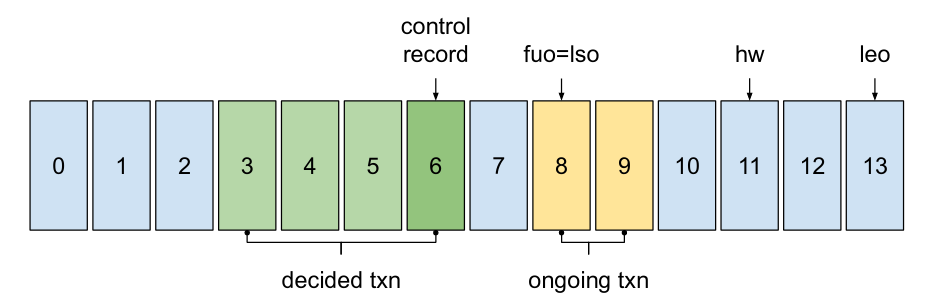
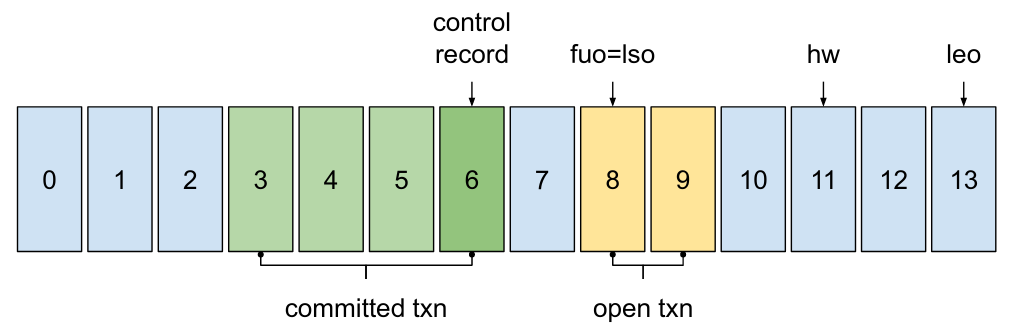
Add feedback from Tom 2/2

diff --git a/_posts/2023-04-14-kafka-transactions.md b/_posts/2023-04-14-kafka-transactions.md
@@ -10,12 +10,18 @@ It is widely used in various industries for data streaming applications, such as
 One of the key features of Kafka is the support for transactions, which provides exactly-once semantics (EOS) and is available since Kafka 0.11 ([KIP-98](https://cwiki.apache.org/confluence/display/KAFKA/KIP-98+-+Exactly+Once+Delivery+and+Transactional+Messaging)).
 The support for EOS was recently extended to source connectors in Kafka Connect, which enables configuration-driven and fully transactional streaming pipelines ([KIP-618](https://cwiki.apache.org/confluence/display/KAFKA/KIP-618%3A+Exactly-Once+Support+for+Source+Connectors)).
 
-As messages flow through Kafka, they can be processed by multiple consumers, and ensuring that all consumers that should receive a message actually receive it once and only once can be crucial.
-The EOS guarantees that any set of operations inside Kafka will be completed atomically, either all of the operations succeed or none of them do.
-This is done by defining transaction boundaries that dictate which operations can be grouped together in a single transaction.
-These operations can include reading from topics, writing to topics, and committing offsets.
-A failure during processing can cause a transaction to be aborted, in which case none of the messages from the transaction will be readable by transactional consumers.
-This helps in maintaining high levels of reliability and consistency as data is processed throughout the application's lifetime.
+Transactions provide the guarantee of atomicity, consistency, isolation, and durability (ACID) for a group of messages that are published to Kafka.
+This means that either all messages within the transaction will be successfully written to Kafka or none of the messages will be written.
+This is a crucial feature when it comes to ensuring data consistency and avoiding any data loss.
+
+Kafka transactions are particularly important in scenarios where data integrity is critical, such as financial transactions, logging systems, and messaging platforms.
+Additionally, using Kafka transactions can help ensure that the ordering of events is preserved, which can be necessary for certain applications.
+
+In this post you will learn how EOS works in Kafka, which are the main components that are involved in a transaction lifetime and their requirements. 
+Then, you will learn about the drawbacks, so that you can anticipate any issue long before your application reach production stage.
+Finally, you will see a basic example that helps to understand how transactions metadata are stored, which is useful for troubleshooting.
+
+A general understanding of how the log replication protocol works is required to fully understand some of the concepts presented here.
 
 <!--more-->
 
@@ -43,13 +49,15 @@ In addition to durability, this provides partition level message ordering and du
 
 When the idempotent producer is enabled, the broker registers the producer id (PID) and the epoch (producer session).
 A sequence number is assigned to each record when the batch is first added to a produce request and never changed, even if the batch is resent.
-The broker keeps track of the sequence number per producer and partition, periodically storing this information in `.snapshot` files.
+The broker keeps track of the sequence number per producer and partition, periodically storing this information in a `.snapshot` file.
 Whenever a new batch arrives, the broker checks if the last received number is equal to the first batch number plus one, then the batch is acknowledged, otherwise it is rejected.
 
 Unfortunately, the idempotent producer does not guarantee duplicate protection across restarts and when you need to write to multiple partitions as a single unit of work.
 This is the typical scenario with many stream processing applications that run read-process-write cycles.
-In this case, you can make these cycles atomic using the Kafka Producer or Kafka Streams APIs.
+In this case, you can make these cycles atomic using the transaction support of the Kafka Producer or Kafka Streams APIs.
+
 The Kafka Producer API is low level, so you need to ensure the right configuration and to commit offsets within the scope of the transaction.
+A transaction should be aborted in case failure during processing, which means none of the messages from the transaction will be readable by transactional consumers.
 Instead, with the Kafka Streams API you can simply set `processing.guarantee=exactly_once_v2` to enable EOS on your existing topology.
 
 ### Considerations
@@ -63,10 +71,10 @@ Thereafter, any existing producers using the same `transactional.id` are conside
 > This limitation was hugely inefficient, because an application instance couldn't reuse a single thread-safe producer instance, but had to create one for each input partition. 
 > It was fixed with by forcing the producer to send the consumer group metadata along with the offsets to commit ([KIP-447](https://cwiki.apache.org/confluence/display/KAFKA/KIP-447%3A+Producer+scalability+for+exactly+once+semantics)).
 
-To guarantee message ordering, a given producer can have at most one open transaction.
+To guarantee message ordering, a given producer can have at most one open transaction (they are executed serially).
 Consumers with `isolation.level=read_committed` are not allowed to advance to offsets which include open transactions, while messages from aborted transactions are filtered out.
 
-The `TransactionCoordinator` is a module running inside every Kafka broker.
+The transaction coordinator is a module running inside every Kafka broker.
 Each coordinator owns a subset of the partitions in the internal `__transaction_state` topic (i.e. the partitions for which its broker is the leader).
 The coordinator automatically aborts any ongoing transaction that is not completed within `transaction.timeout.ms`.
 
@@ -74,7 +82,17 @@ It is important to note that transactions are only supported inside a single Kaf
 If the transaction scope includes processors with externally observable side-effects, you would need to use an additional component such as `ChainedKafkaTransactionManager` from the SpringBoot project.
 This component is able to synchronize a database transaction with the Kafka transaction.
 
-#### Transaction states
+#### Transaction metadata
+
+A control record is a special type of record that is used for internal operations within Kafka, rather than for normal message processing.
+They are primarily used by the Kafka brokers themselves to manage topics, partitions, and other metadata, but may sometimes be used by administrators or monitoring tools as well.
+Control records are typically not visible to Kafka consumers, as they are meant to be processed only by the Kafka brokers.
+
+An end transaction marker (`COMMIT` or `ABORT`) is a special control record that indicates the end of a transaction (decision).
+It is used to ensure that the transaction is either completed successfully or aborted in case of a failure.
+The end transaction marker is added to the log after all the records related to the transaction have been written to the log.
+
+Non-transactional records are considered decided immediately, but transactional records are only decided when the corresponding commit or abort marker is written.
 
 A transaction goes through the following states:
 
@@ -82,14 +100,18 @@ A transaction goes through the following states:
 2. **Decided and unreplicated** (PrepareCommit\|PrepareAbort)
 3. **Decided and replicated** (CompleteCommit\|CompleteAbort)
 
-Non-transactional batches are considered decided immediately, but transactional batches are only decided when the corresponding commit or abort marker is written (control record).
-
-The high watermark (HW) is the offset of the last message that was successfully committed (replicated to all in-sync replicas).
-The first unstable offset (FUO) is the earliest offset that is part of the ongoing transaction, if present.
-The last stable offset (LSO) is the offset such that all lower offsets have been decided and it is always present.
-The LSO is equal to the FUO if it's lower than the HW, otherwise it's the HW (LSO <= HW <= LEO).
+This is handled through a process similar to the two-phase commit protocol.
+Every time some data is sent to a new partition inside a transaction, we have a new `Ongoing` control record.
+When the transaction completes, we have the `PrepareCommit` or `PrepareAbort` control record and the transaction coordinator is doomed to commit or abort.
+The final step consists of writing the end transaction markers to each involved partition, and the `CompleteCommit` or `CompleteAbort` control record.
 
 ![txn log](/assets/images/posts/2023-04-14-kafka-txn-log.png)
+
+The last stable offset (LSO) is the offset such that all lower offsets have been decided and it is always present.
+The first unstable offset (FUO) is the earliest offset that is part of the ongoing transaction, if present.
+
+The LSO is equal to the FUO if it's lower than the HW, otherwise it's the HW.
+We have that `LSO <= HW <= LEO`, which can be the same offset when there is no open transaction and all partitions are in-sync.
 
 #### Error handling
 
@@ -98,7 +120,7 @@ The `TransactionalIdAuthorizationException` happens when you have authorization 
 In the following example we allow any `transactional.id` from any user.
 
 ```sh
-$ kafka-acls.sh --bootstrap-server:9092 --command-config client.properties --add \
+$ $KAFKA_HOME/bin/kafka-acls.sh --bootstrap-server :9092 --command-config client.properties --add \
   --allow-principal User:* --operation write --transactional-id *
 ```
 
@@ -109,10 +131,13 @@ When running on a Kubernetes platform and you don't need fast recovery times, an
 
 #### Monitoring
 
-When running in production, it is important to monitor the health of your Kafka deployments to maintain reliable performance.
-Some of the metrics that Kafka provides can be useful when dealing with transaction issues and tuning.
+When running in production, it is important to collect metrics provided by your Kafka deployments.
 
-On the broker side, you should should collect at least the count and 99 percentile for the following APIs.
+If you've not collected the metrics then you have no information to go on when something goes wrong. 
+You're often left with no choice but to reconfigure with the right metrics and wait for the problem to happen again in order to understand it. 
+This could double its impact, or worse.
+
+On the broker side, the following JMX metrics are particularly helpful when diagnosing issue impacting transactions.
 
 ```sh
 # requests: FindCoordinator, InitProducerId, AddPartitionsToTxn, Produce, EndTxn
@@ -124,21 +149,25 @@ kafka.network:type=RequestMetrics,name=RemoteTimeMs,request=([\w]+)
 kafka.network:type=RequestMetrics,name=ThrottleTimeMs,request=([\w]+)
 kafka.network:type=RequestMetrics,name=ResponseQueueTimeMs,request=([\w]+)
 kafka.network:type=RequestMetrics,name=ResponseSendTimeMs,request=([\w]+)
-attributes:Count,99thPercentile
+# attributes: Count, 99thPercentile
 ```
 
 Likewise the following producer metrics can be helpful, perhaps after broker logs reveal some misbehavior.
 
 ```sh
 kafka.producer:type=producer-metrics,client-id=([-.\w]+)
-attributes:txn-init-time-ns-total,txn-begin-time-ns-total,txn-send-offsets-time-ns-total,txn-commit-time-ns-total,txn-abort-time-ns-total
+# attributes: txn-init-time-ns-total, txn-begin-time-ns-total, txn-send-offsets-time-ns-total, txn-commit-time-ns-total, txn-abort-time-ns-total
 ```
 
 ### Drawbacks
 
 There are a few drawbacks when using Kafka transactions that developers should be aware of.
 
-Firstly, transactions can add some latency to an application due to the write amplification required to ensure EOS.
+Firstly, enabling EOS has an effect on throughput, which can be significant.
+Each producer can only process transactions sequentially, so you might need multiple transactional producers, which can have a knock-on effect on the rest of the application.
+This is where frameworks can provide useful abstractions over multiple producer instances.
+
+Then, transactions can add some latency to an application due to the write amplification required to ensure EOS.
 While this may not be a significant issue for some applications, those that require real-time processing may be affected.
 
 Each transaction in Kafka incurs some overhead that is independent of the number of messages involved. 
@@ -171,7 +200,7 @@ Additionally, if the partition belongs to a compacted topic, this causes the unb
 If not detected and fixed in time, this may lead to disk space exhaustion and service disruption.
 
 Fortunately, there are embedded tools that can be used to find all hanging transactions and roll them back.
-After that, the LSO starts to increment again on every transaction completion and the application should be able to recover.
+When doing that, it is important to understand the business context surrounding the records in this transaction and possibly append those records again using a new transaction.
 
 ```sh
 # find all hanging transactions in a broker
@@ -189,6 +218,7 @@ Let's run a basic example to see how transactions work at the partition level.
 You just need an environment with few command line tools (curl, tar, java, mvn).
 
 This application consumes text messages from the `input-topic`, reverts their content, and sends the result to the `output-topic`.
+The following diagram shows the relevant RPCs.
 
 ![txn app](/assets/images/posts/2023-04-14-kafka-txn-app.png)
 
@@ -207,9 +237,9 @@ $ $KAFKA_HOME/bin/zookeeper-server-start.sh -daemon $KAFKA_HOME/config/zookeeper
 
 # open a new terminal, get and run the application (Ctrl+C to stop)
 $ git clone git@github.com:fvaleri/examples.git -n --depth=1 --filter=tree:0 && cd examples \
-  && git sparse-checkout set --no-cone kafka/kafka-txn && git checkout 412c0e4f7ccdd9db32f311594358479ab001231b
+  && git sparse-checkout set --no-cone kafka/kafka-txn && git checkout 5fe575a16fd4106519b13953f2049a6c3101e9f4
 ...
-HEAD is now at 412c0e4 Update start log
+HEAD is now at 5fe575a Add invalid offset handling
 
 $ export BOOTSTRAP_SERVERS="localhost:9092" INSTANCE_ID="kafka-txn-0" \
   GROUP_ID="my-group" INPUT_TOPIC="input-topic" OUTPUT_TOPIC="output-topic"
@@ -255,58 +285,56 @@ Knowing the coordinating partitions, we can take a look at their content using t
 Note how we pass the decoder parameter when dumping from internal topics, whose content is encoded for performance reasons.
 
 ```sh
-# dump output-topic-0
-$ $KAFKA_HOME/bin/kafka-dump-log.sh --deep-iteration --print-data-log --files /tmp/kafka-logs/output-topic-0/00000000000000000000.log
-Dumping /tmp/kafka-logs/output-topic-0/00000000000000000000.log
-Log starting offset: 0
-baseOffset: 0 lastOffset: 0 count: 1 baseSequence: 0 lastSequence: 0 producerId: 0 producerEpoch: 0 partitionLeaderEpoch: 0 isTransactional: true isControl: false deleteHorizonMs: OptionalLong.empty position: 0 CreateTime: 1680383687941 size: 82 magic: 2 compresscodec: none crc: 2785707995 isvalid: true
-| offset: 0 CreateTime: 1680383687941 keySize: -1 valueSize: 14 sequence: 0 headerKeys: [] payload: tset
-baseOffset: 1 lastOffset: 1 count: 1 baseSequence: -1 lastSequence: -1 producerId: 0 producerEpoch: 0 partitionLeaderEpoch: 0 isTransactional: true isControl: true deleteHorizonMs: OptionalLong.empty position: 82 CreateTime: 1680383688163 size: 78 magic: 2 compresscodec: none crc: 3360473936 isvalid: true
-| offset: 1 CreateTime: 1680383688163 keySize: 4 valueSize: 6 sequence: -1 headerKeys: [] endTxnMarker: COMMIT coordinatorEpoch: 0
-
-# dump __consumer_offsets-12 using the offsets decoder
-$ $KAFKA_HOME/bin/kafka-dump-log.sh --deep-iteration --print-data-log --offsets-decoder --files /tmp/kafka-logs/__consumer_offsets-12/00000000000000000000.log
-Dumping /tmp/kafka-logs/__consumer_offsets-12/00000000000000000000.log
-Starting offset: 0
-...
-baseOffset: 1 lastOffset: 1 count: 1 baseSequence: 0 lastSequence: 0 producerId: 0 producerEpoch: 0 partitionLeaderEpoch: 0 isTransactional: true isControl: false deleteHorizonMs: OptionalLong.empty position: 339 CreateTime: 1665506597950 size: 118 magic: 2 compresscodec: none crc: 4199759988 isvalid: true
-| offset: 1 CreateTime: 1680383688085 keySize: 26 valueSize: 24 sequence: 0 headerKeys: [] key: offset_commit::group=my-group,partition=input-topic-0 payload: offset=1
-baseOffset: 2 lastOffset: 2 count: 1 baseSequence: -1 lastSequence: -1 producerId: 0 producerEpoch: 0 partitionLeaderEpoch: 0 isTransactional: true isControl: true deleteHorizonMs: OptionalLong.empty position: 457 CreateTime: 1665506597998 size: 78 magic: 2 compresscodec: none crc: 3355926470 isvalid: true
-| offset: 2 CreateTime: 1680383688163 keySize: 4 valueSize: 6 sequence: -1 headerKeys: [] endTxnMarker: COMMIT coordinatorEpoch: 0
-...
+ 1 # dump output-topic-0
+ 2 $ $KAFKA_HOME/bin/kafka-dump-log.sh --deep-iteration --print-data-log --files /tmp/kafka-logs/output-topic-0/00000000000000000000.log
+ 3 Dumping /tmp/kafka-logs/output-topic-0/00000000000000000000.log
+ 4 Log starting offset: 0
+ 5 baseOffset: 0 lastOffset: 0 count: 1 baseSequence: 0 lastSequence: 0 producerId: 0 producerEpoch: 0 partitionLeaderEpoch: 0 isTransactional: true isControl: false deleteHorizonMs: OptionalLong.empty position: 0 CreateTime: 1680383687941 size: 82 magic: 2 compresscodec: none crc: 2785707995 isvalid: true
+ 6 | offset: 0 CreateTime: 1680383687941 keySize: -1 valueSize: 14 sequence: 0 headerKeys: [] payload: tset
+ 7 baseOffset: 1 lastOffset: 1 count: 1 baseSequence: -1 lastSequence: -1 producerId: 0 producerEpoch: 0 partitionLeaderEpoch: 0 isTransactional: true isControl: true deleteHorizonMs: OptionalLong.empty position: 82 CreateTime: 1680383688163 size: 78 magic: 2 compresscodec: none crc: 3360473936 isvalid: true
+ 8 | offset: 1 CreateTime: 1680383688163 keySize: 4 valueSize: 6 sequence: -1 headerKeys: [] endTxnMarker: COMMIT coordinatorEpoch: 0
+ 9 
+10 # dump __consumer_offsets-12 using the offsets decoder
+11 $ $KAFKA_HOME/bin/kafka-dump-log.sh --deep-iteration --print-data-log --offsets-decoder --files /tmp/kafka-logs/__consumer_offsets-12/00000000000000000000.log
+12 Dumping /tmp/kafka-logs/__consumer_offsets-12/00000000000000000000.log
+13 Starting offset: 0
+14 ...
+15 baseOffset: 1 lastOffset: 1 count: 1 baseSequence: 0 lastSequence: 0 producerId: 0 producerEpoch: 0 partitionLeaderEpoch: 0 isTransactional: true isControl: false deleteHorizonMs: OptionalLong.empty position: 339 CreateTime: 1665506597950 size: 118 magic: 2 compresscodec: none crc: 4199759988 isvalid: true
+16 | offset: 1 CreateTime: 1680383688085 keySize: 26 valueSize: 24 sequence: 0 headerKeys: [] key: offset_commit::group=my-group,partition=input-topic-0 payload: offset=1
+17 baseOffset: 2 lastOffset: 2 count: 1 baseSequence: -1 lastSequence: -1 producerId: 0 producerEpoch: 0 partitionLeaderEpoch: 0 isTransactional: true isControl: true deleteHorizonMs: OptionalLong.empty position: 457 CreateTime: 1665506597998 size: 78 magic: 2 compresscodec: none crc: 3355926470 isvalid: true
+18 | offset: 2 CreateTime: 1680383688163 keySize: 4 valueSize: 6 sequence: -1 headerKeys: [] endTxnMarker: COMMIT coordinatorEpoch: 0
+19 ...
 ```
 
-As you can see, the consumer offsets and the output message are committed as an atomic unit.
-In `wc-output-0`, we see that the data batch is transactional and contains the producer's state (PID and epoch).
-This data batch is followed by a control batch, which contains the end transaction marker (COMMIT).
-In `__consumer_offsets-12`, the consumer group offset commit batch is followed by a similar control batch.
+The consumer offsets and the output message are committed as an atomic unit (lines 8 and 18).
+In `wc-output-0` dump, we see that the data batch is transactional and contains the producer's state (line 5).
+In `__consumer_offsets-12` dump, we have the consumer group's offset commit record (line 16).
 
-We can also look at how the transaction states are stored by the coordinator.
+We can also look at how the transaction states are stored by the transaction coordinator.
 
 ```sh
-# $KAFKA_HOME/bin/dump __transaction_state-20 using the transaction log decoder
-kafka-dump-log.sh --deep-iteration --print-data-log --transaction-log-decoder --files /tmp/kafka-logs/__transaction_state-30/00000000000000000000.log
-Dumping /tmp/kafka-logs/__transaction_state-30/00000000000000000000.log
-Log starting offset: 0
-baseOffset: 0 lastOffset: 0 count: 1 baseSequence: -1 lastSequence: -1 producerId: -1 producerEpoch: -1 partitionLeaderEpoch: 0 isTransactional: false isControl: false deleteHorizonMs: OptionalLong.empty position: 0 CreateTime: 1680383478420 size: 122 magic: 2 compresscodec: none crc: 2867569944 isvalid: true
-| offset: 0 CreateTime: 1680383478420 keySize: 17 valueSize: 37 sequence: -1 headerKeys: [] key: transaction_metadata::transactionalId=kafka-txn-0 payload: producerId:0,producerEpoch:0,state=Empty,partitions=[],txnLastUpdateTimestamp=1680383478418,txnTimeoutMs=60000
-baseOffset: 1 lastOffset: 1 count: 1 baseSequence: -1 lastSequence: -1 producerId: -1 producerEpoch: -1 partitionLeaderEpoch: 0 isTransactional: false isControl: false deleteHorizonMs: OptionalLong.empty position: 122 CreateTime: 1680383687954 size: 145 magic: 2 compresscodec: none crc: 3735151334 isvalid: true
-| offset: 1 CreateTime: 1680383687954 keySize: 17 valueSize: 59 sequence: -1 headerKeys: [] key: transaction_metadata::transactionalId=kafka-txn-0 payload: producerId:0,producerEpoch:0,state=Ongoing,partitions=[output-topic-0],txnLastUpdateTimestamp=1680383687952,txnTimeoutMs=60000
-baseOffset: 2 lastOffset: 2 count: 1 baseSequence: -1 lastSequence: -1 producerId: -1 producerEpoch: -1 partitionLeaderEpoch: 0 isTransactional: false isControl: false deleteHorizonMs: OptionalLong.empty position: 267 CreateTime: 1680383687961 size: 174 magic: 2 compresscodec: none crc: 3698066654 isvalid: true
-| offset: 2 CreateTime: 1680383687961 keySize: 17 valueSize: 87 sequence: -1 headerKeys: [] key: transaction_metadata::transactionalId=kafka-txn-0 payload: producerId:0,producerEpoch:0,state=Ongoing,partitions=[output-topic-0,__consumer_offsets-12],txnLastUpdateTimestamp=1680383687960,txnTimeoutMs=60000
-baseOffset: 3 lastOffset: 3 count: 1 baseSequence: -1 lastSequence: -1 producerId: -1 producerEpoch: -1 partitionLeaderEpoch: 0 isTransactional: false isControl: false deleteHorizonMs: OptionalLong.empty position: 441 CreateTime: 1680383688149 size: 174 magic: 2 compresscodec: none crc: 1700234506 isvalid: true
-| offset: 3 CreateTime: 1680383688149 keySize: 17 valueSize: 87 sequence: -1 headerKeys: [] key: transaction_metadata::transactionalId=kafka-txn-0 payload: producerId:0,producerEpoch:0,state=PrepareCommit,partitions=[output-topic-0,__consumer_offsets-12],txnLastUpdateTimestamp=1680383688148,txnTimeoutMs=60000
-baseOffset: 4 lastOffset: 4 count: 1 baseSequence: -1 lastSequence: -1 producerId: -1 producerEpoch: -1 partitionLeaderEpoch: 0 isTransactional: false isControl: false deleteHorizonMs: OptionalLong.empty position: 615 CreateTime: 1680383688180 size: 122 magic: 2 compresscodec: none crc: 3020616838 isvalid: true
-| offset: 4 CreateTime: 1680383688180 keySize: 17 valueSize: 37 sequence: -1 headerKeys: [] key: transaction_metadata::transactionalId=kafka-txn-0 payload: producerId:0,producerEpoch:0,state=CompleteCommit,partitions=[],txnLastUpdateTimestamp=1680383688154,txnTimeoutMs=60000
+ 1 # dump __transaction_state-20 using the transaction log decoder
+ 2 $KAFKA_HOME/bin/kafka-dump-log.sh --deep-iteration --print-data-log --transaction-log-decoder --files /tmp/kafka-logs/__transaction_state-30/00000000000000000000.log
+ 3 Dumping /tmp/kafka-logs/__transaction_state-30/00000000000000000000.log
+ 4 Log starting offset: 0
+ 5 baseOffset: 0 lastOffset: 0 count: 1 baseSequence: -1 lastSequence: -1 producerId: -1 producerEpoch: -1 partitionLeaderEpoch: 0 isTransactional: false isControl: false deleteHorizonMs: OptionalLong.empty position: 0 CreateTime: 1680383478420 size: 122 magic: 2 compresscodec: none crc: 2867569944 isvalid: true
+ 6 | offset: 0 CreateTime: 1680383478420 keySize: 17 valueSize: 37 sequence: -1 headerKeys: [] key: transaction_metadata::transactionalId=kafka-txn-0 payload: producerId:0,producerEpoch:0,state=Empty,partitions=[],txnLastUpdateTimestamp=1680383478418,txnTimeoutMs=60000
+ 7 baseOffset: 1 lastOffset: 1 count: 1 baseSequence: -1 lastSequence: -1 producerId: -1 producerEpoch: -1 partitionLeaderEpoch: 0 isTransactional: false isControl: false deleteHorizonMs: OptionalLong.empty position: 122 CreateTime: 1680383687954 size: 145 magic: 2 compresscodec: none crc: 3735151334 isvalid: true
+ 8 | offset: 1 CreateTime: 1680383687954 keySize: 17 valueSize: 59 sequence: -1 headerKeys: [] key: transaction_metadata::transactionalId=kafka-txn-0 payload: producerId:0,producerEpoch:0,state=Ongoing,partitions=[output-topic-0],txnLastUpdateTimestamp=1680383687952,txnTimeoutMs=60000
+ 9 baseOffset: 2 lastOffset: 2 count: 1 baseSequence: -1 lastSequence: -1 producerId: -1 producerEpoch: -1 partitionLeaderEpoch: 0 isTransactional: false isControl: false deleteHorizonMs: OptionalLong.empty position: 267 CreateTime: 1680383687961 size: 174 magic: 2 compresscodec: none crc: 3698066654 isvalid: true
+10 | offset: 2 CreateTime: 1680383687961 keySize: 17 valueSize: 87 sequence: -1 headerKeys: [] key: transaction_metadata::transactionalId=kafka-txn-0 payload: producerId:0,producerEpoch:0,state=Ongoing,partitions=[output-topic-0,__consumer_offsets-12],txnLastUpdateTimestamp=1680383687960,txnTimeoutMs=60000
+11 baseOffset: 3 lastOffset: 3 count: 1 baseSequence: -1 lastSequence: -1 producerId: -1 producerEpoch: -1 partitionLeaderEpoch: 0 isTransactional: false isControl: false deleteHorizonMs: OptionalLong.empty position: 441 CreateTime: 1680383688149 size: 174 magic: 2 compresscodec: none crc: 1700234506 isvalid: true
+12 | offset: 3 CreateTime: 1680383688149 keySize: 17 valueSize: 87 sequence: -1 headerKeys: [] key: transaction_metadata::transactionalId=kafka-txn-0 payload: producerId:0,producerEpoch:0,state=PrepareCommit,partitions=[output-topic-0,__consumer_offsets-12],txnLastUpdateTimestamp=1680383688148,txnTimeoutMs=60000
+13 baseOffset: 4 lastOffset: 4 count: 1 baseSequence: -1 lastSequence: -1 producerId: -1 producerEpoch: -1 partitionLeaderEpoch: 0 isTransactional: false isControl: false deleteHorizonMs: OptionalLong.empty position: 615 CreateTime: 1680383688180 size: 122 magic: 2 compresscodec: none crc: 3020616838 isvalid: true
+14 | offset: 4 CreateTime: 1680383688180 keySize: 17 valueSize: 37 sequence: -1 headerKeys: [] key: transaction_metadata::transactionalId=kafka-txn-0 payload: producerId:0,producerEpoch:0,state=CompleteCommit,partitions=[],txnLastUpdateTimestamp=1680383688154,txnTimeoutMs=60000
 ```
 
-In `__transaction_state-20` record payloads, we can see all transaction state changes keyed by `transactionalId`.
+In `__transaction_state-20` dump, we can see all state changes keyed by `transactionalId` (lines 6, 8, 10, 12, 14).
 The transaction starts in the `Empty` state, then we have the `Ongoing` state change every time a new partition is registered.
 When the commit is called, a process similar to the two-phase commit produces the two final state changes: `PrepareCommit` and `CompleteCommit`.
 
 ### Conclusion
 
-Transactions in Apache Kafka are a powerful tool for ensuring consistency and reliability.
-By providing exactly-once semantics, Kafka enables applications to better manage their data processing and prevent errors.
-However, these advantages come at the cost of additional latency, which may require tuning in some use cases.
+Kafka transactions provide an essential means of ensuring data reliability and integrity, making them a crucial feature of the Kafka platform.
+However, these advantages come at the cost of reduced throughput and additional latency, which may require some tuning.
 If not monitored, hanging transactions can be a concrete risk for cluster stability.
